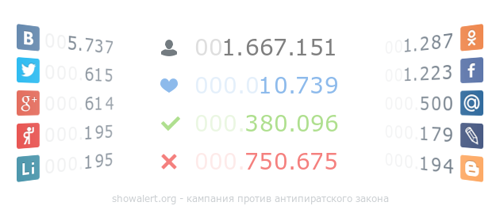
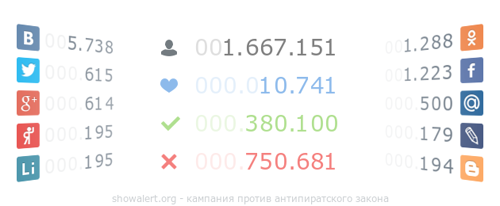
update statistics files for plugins

diff --git a/votes.js b/votes.js
@@ -1,1 +1,1 @@
-window.lk.votes(30984)
+window.lk.votes(30986)
